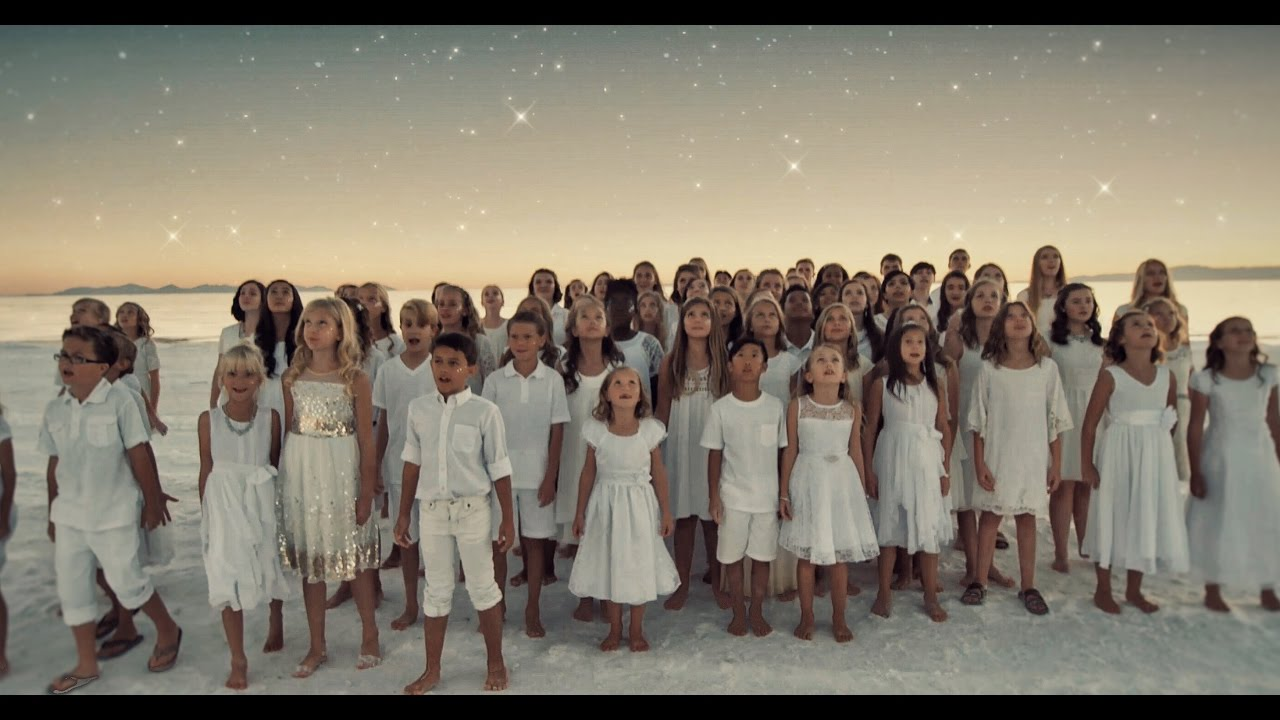
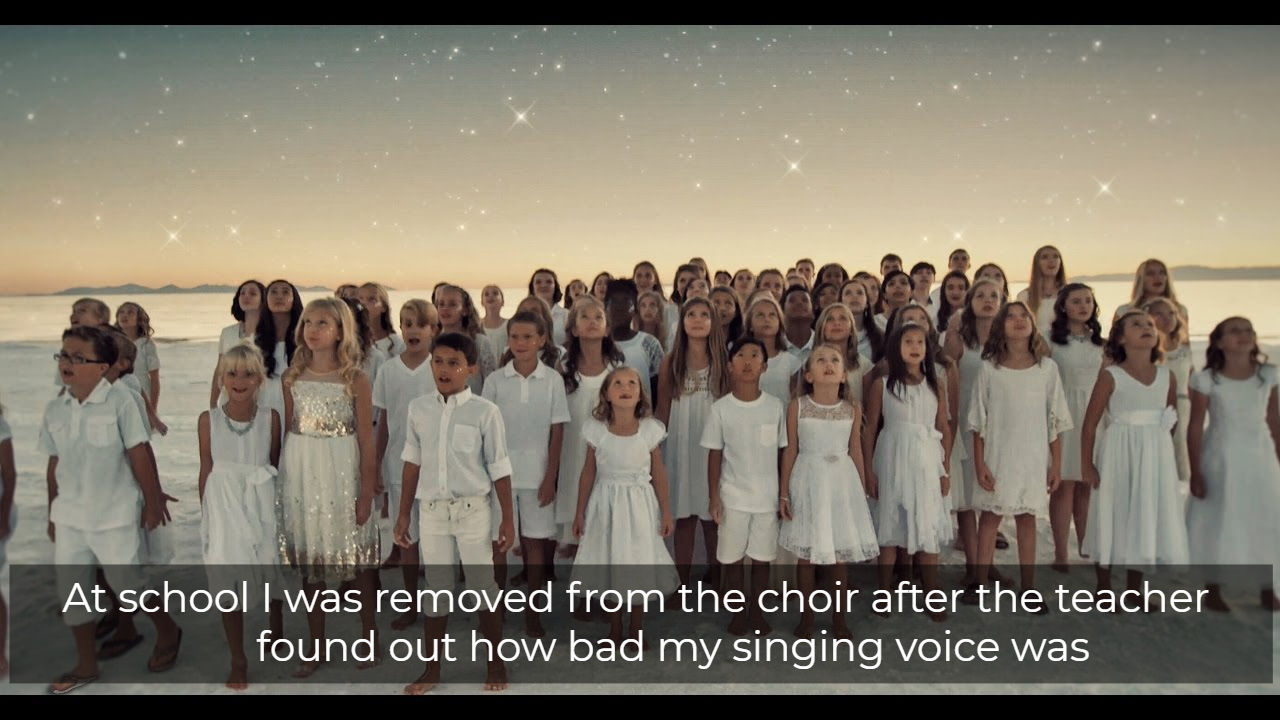
Working on Image Carousel and adding the footer

Changed region(s): [[0.0, 0.7639, 1.0, 0.9472]]

diff --git a/index.html b/index.html
@@ -178,38 +178,38 @@ to create something mind blowing in the future.
     <div class="slider-wrapper">
       <div class="slide active"> <!-- shows witch slide is active. after refresh from which slide we start doing our slide show -->
         <img class="picture-carousel random" src="./images/me.jpg" alt="picture of me">
-        <div class="facts">Random Facts About Me </div>
+       <!-- <div class="facts">Random Facts About Me </div>-->
       </div>
       <div class="slide">
         <img class="picture-carousel" src="./images/cake.jpg" alt="picture of cake">
-        <p class="text-carousel"> I like baking cakes more than eating them. </p>
+       <!-- <p class="text-carousel"> I like baking cakes more than eating them. </p>-->
       </div>
       <div class="slide">
     <img class="picture-carousel" src="./images/skate.jpg" alt="women skate">
-    <p class="text-carousel"> I used to ice skate across a frozen lake to go to school in the winter </p>
+    <!--<p class="text-carousel"> I used to ice skate across a frozen lake to go to school in the winter </p> -->
   </div>
   <div class="slide">
     <img class="picture-carousel" src="./images/vilage.jpg" alt="picture of village">
-    <p class="text-carousel"> I grew up in a small village with no running hot water and only 
-      an outdoor W.C. </p>
+    <!--<p class="text-carousel"> I grew up in a small village with no running hot water and only 
+      an outdoor W.C. </p>-->
   </div>
   <div class="slide">
     <img class="picture-carousel" src="./images/cow.jpg" alt="picture of the cow">
-    <p class="text-carousel"> I know how to milk a cow</p>
+  <!--  <p class="text-carousel"> I know how to milk a cow</p>-->
   </div>
   <div class="slide">
-    <img class="picture-carousel" src="./images/army.png" alt="military">
-    <p class="text-carousel"> After I finished school I was accepted by a military school,
-       but decided to go elsewhere</p>
+    <img class="picture-carousel" src="./images/army.jpg" alt="military">
+  <!--  <p class="text-carousel"> After I finished school I was accepted by a military school,
+       but decided to go elsewhere</p>-->
   </div>
   <div class="slide">
     <img class="picture-carousel" src="./images/choir.jpg" alt="children choir">
-    <p class="text-carousel"> At school I was removed from the choir after the teacher 
-      found out how bad my singing voice was</p>
+    <!--<p class="text-carousel"> At school I was removed from the choir after the teacher 
+      found out how bad my singing voice was</p>-->
   </div>
   <div class="slide">
-    <img class="picture-carousel" src="./images/movie.jpg" alt="movie poster">
-    <p class="text-carousel"> My favourite movie is <a href="https://www.imdb.com/title/tt1187043/" target="_blank"> “3 idiots”</a> </p>
+  <img class="picture-carousel" src="./images/movie.jpg" alt="movie poster">
+    <!--  <p class="text-carousel"> My favourite movie is <a href="https://www.imdb.com/title/tt1187043/" target="_blank"> “3 idiots”</a> </p> -->
   </div>
   
   <div id="btn-prev"></div>
@@ -269,7 +269,14 @@ to create something mind blowing in the future.
 <!--Contacts-->
 <section class="contact" id="contact">
 
+<footer>
+  <h6>You can be friends with me:</h6>
+  <a href="https://www.linkedin.com/in/simona-joksaite-aa128466/" target="blank"><span class="iconify" data-icon="ant-design:linkedin-outlined" data-inline="false" data-width="2rem" data-height="2rem"></span></a>
+  <a href="https://www.instagram.com/simona_joksaite/" target="blank"><span class="iconify" data-icon="fa-brands:instagram" data-inline="false" data-width="2rem" data-height="2rem"></span></a>
+  <a href="https://github.com/missim2020" target="blank"><span class="iconify" data-icon="ant-design:github-filled" data-inline="false" data-width="2rem" data-height="2rem"></span></a>
 
+  <p class="copyright">&copy; Simona 2020 London</p>
+</footer>
 
 
 

diff --git a/Styles/style.css b/Styles/style.css
@@ -464,7 +464,7 @@ p{
         border-radius: 6px;
         color: #ffffff !important;
         display: inline-block;
-        font-family:'Domine', serif;
+        font-family:'Montserrat', sans-serif;;
         font-size: 1rem;
         letter-spacing: 6px;
         margin-top: 0.5rem;
@@ -497,8 +497,12 @@ p{
     width: 100%;
     }
 
+    .picture-projects:hover{
+        opacity:0.7;
+    }
+
     figcaption{
-        font-family:'Domine', serif;
+        font-family:'Montserrat', sans-serif;;
         font-size: 1rem;
         font-weight: bold;
         margin-top: 0.5rem;
@@ -507,11 +511,36 @@ p{
 
     /*links*/
 h5{
-    font-family:'Domine', serif;
+    font-family:'Montserrat', sans-serif;
     font-size: 1rem;
     margin-bottom: 0;
 }
     .links{
         display: flex;
         justify-content: center;
+    }
+
+    /*footer*/
+
+    h6{
+    font-family:'Montserrat', sans-serif;
+    font-size: 1.1rem;
+     margin-bottom: 0.5rem;
+     margin-top:1rem;
+    padding-top: 0.5rem;
+   
+    }
+
+    .iconify{
+margin: 0.5rem 0.5rem 0 0.5rem;
+
+    }
+
+    footer{
+        height: 7.5rem;
+        background-color: #faebeb;
+    }
+
+    .copyright{
+margin:0.5rem 0 0.5rem 0;
     }
